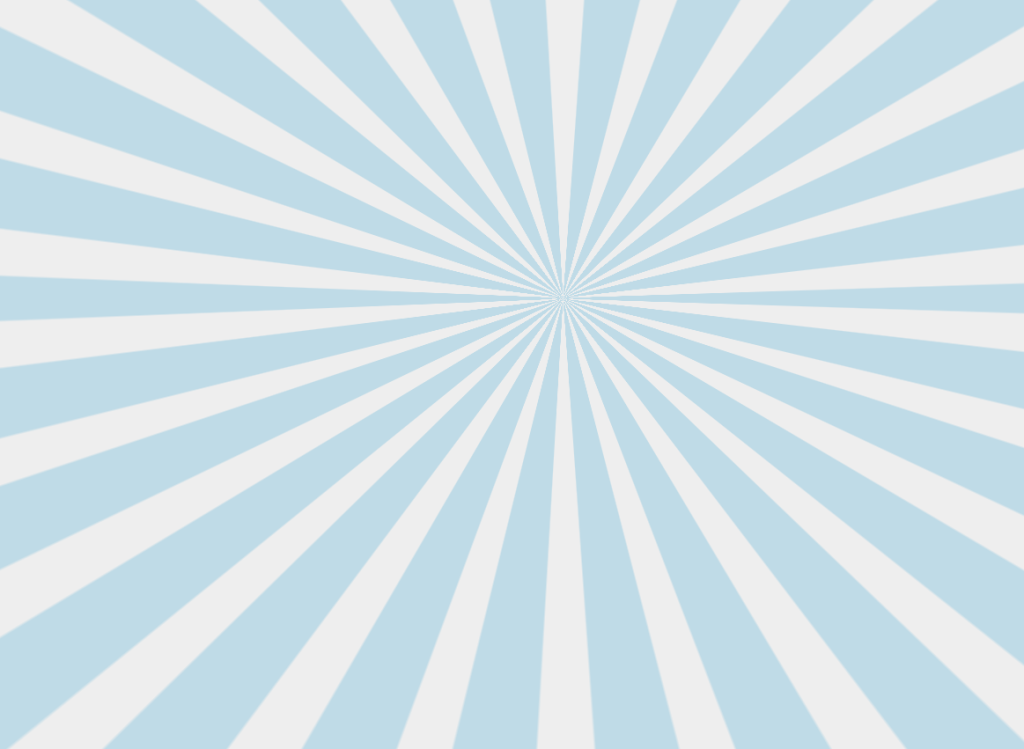
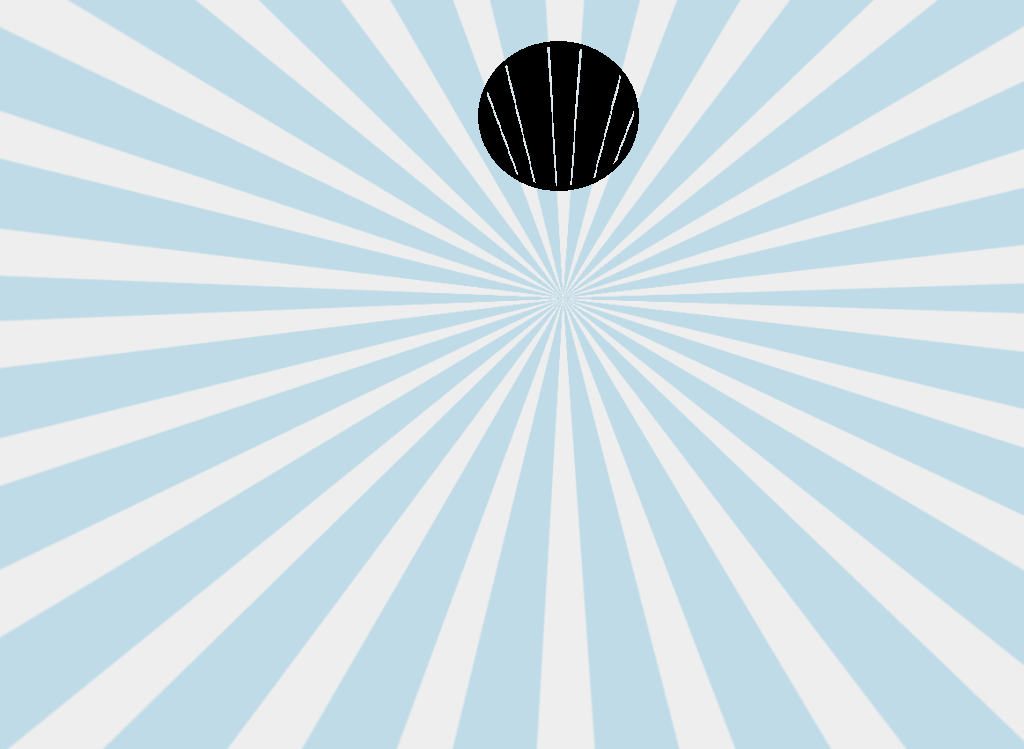
final version

Changed region(s): [[0.4688, 0.0307, 0.625, 0.2764]]

diff --git a/project/MyLamp.js b/project/MyLamp.js
@@ -37,22 +37,22 @@
 	var s = (Math.PI/2) / this.stacks;
 	var beta = 0;
 
+	
+		
 	this.vertices = []; //ARRAYS
 	this.indices = [];
 	this.normals = [];
 	this.texCoords = [];
 	
-	var s = 0;
-	var t = 0;
-	var sinc = 1/this.slices;
-	var tinc = 1/this.stacks;
-	for (var a = 0; a <= this.stacks; a++) {
-		for (var b = 0; b < this.slices; b++) {
-			this.texCoords.push(s, t);
-			s += sinc;
+	for(var q = 0; q < this.stacks+1; q++){
+		
+		for(var i = 0; i < this.slices; i++)
+		{
+			this.texCoords.push((1+Math.cos(i * n)*Math.cos(q *s))*0.5,(1+Math.sin(i * n)*Math.cos(q * s))*0.5);
+			
+
 		}
-		s = 0;
-		t += tinc;
+
 	}
 
 	for(j = 0; j < this.stacks+2; j++)
